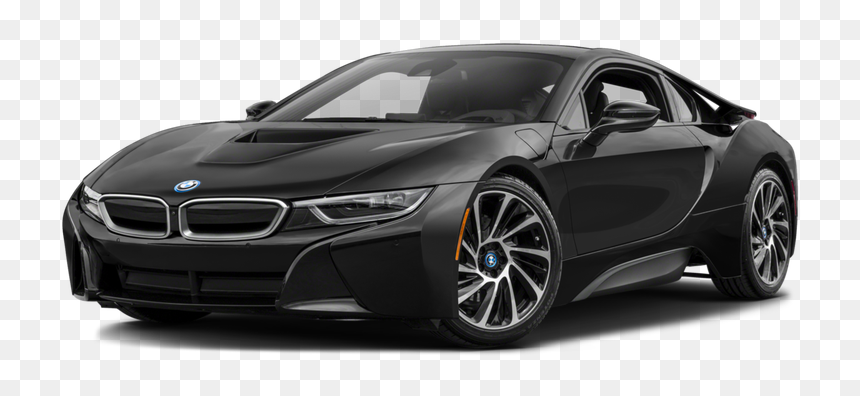
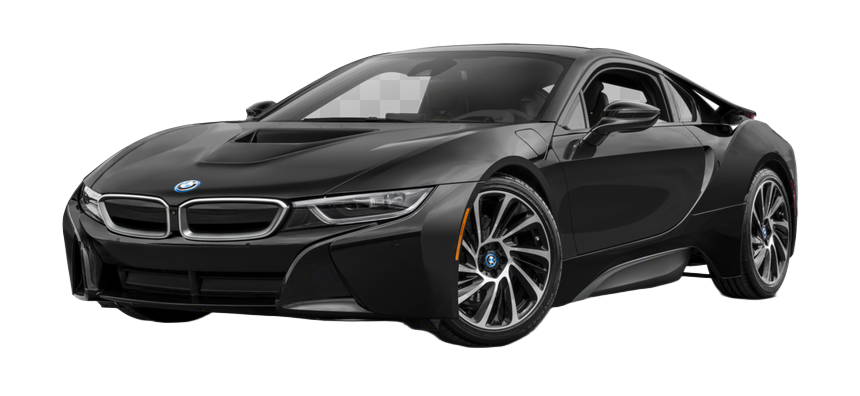
added images for car models

Changed region(s): [[0.0907, 0.6667, 0.9372, 0.9091]]

diff --git a/app/components/Checkout.vue b/app/components/Checkout.vue
@@ -84,7 +84,7 @@ onMounted(() => {
 })
 
 // Shipping and payment methods
-const selectedShippingMethod = ref<'store' | 'post'>('store')
+const selectedShippingMethod = ref<'store' | 'post'>('post')
 const selectedPaymentMethod = ref<'bank' | 'card'>('bank')
 const acceptTerms = ref(false)
 
@@ -529,18 +529,7 @@ const handleOrderNow = async () => {
             <div class="mb-6">
               <h4 class="text-sm font-medium text-gray-700 mb-3">{{ t('checkout.selectShippingMethod') }}</h4>
               <div class="grid grid-cols-1 md:grid-cols-2 gap-3">
-                <button 
-                  @click="selectedShippingMethod = 'store'"
-                  class="flex items-center justify-center space-x-3 p-4 border-2 rounded-lg transition-colors"
-                  :class="selectedShippingMethod === 'store' ? 'border-orange-500 bg-orange-50' : 'border-gray-200 hover:border-gray-300'"
-                >
-                  <div class="w-8 h-8 flex items-center justify-center">
-                    <img src="/images/building.png" :alt="t('checkout.atOurStore')" class="w-6 h-6" />
-                  </div>
-                  <span class="text-sm font-medium">{{ t('checkout.atOurStore') }}</span>
-                </button>
-                
-                <button 
+                <button
                   @click="selectedShippingMethod = 'post'"
                   class="flex items-center justify-center space-x-3 p-4 border-2 rounded-lg transition-colors"
                   :class="selectedShippingMethod === 'post' ? 'border-orange-500 bg-orange-50' : 'border-gray-200 hover:border-gray-300'"
@@ -550,6 +539,17 @@ const handleOrderNow = async () => {
                   </div>
                   <span class="text-sm font-medium">{{ t('checkout.viaPost') }}</span>
                 </button>
+
+                <button
+                  @click="selectedShippingMethod = 'store'"
+                  class="flex items-center justify-center space-x-3 p-4 border-2 rounded-lg transition-colors"
+                  :class="selectedShippingMethod === 'store' ? 'border-orange-500 bg-orange-50' : 'border-gray-200 hover:border-gray-300'"
+                >
+                  <div class="w-8 h-8 flex items-center justify-center">
+                    <img src="/images/building.png" :alt="t('checkout.atOurStore')" class="w-6 h-6" />
+                  </div>
+                  <span class="text-sm font-medium">{{ t('checkout.atOurStore') }}</span>
+                </button>
               </div>
             </div>
 
@@ -557,17 +557,15 @@ const handleOrderNow = async () => {
             <div class="mb-6">
               <h4 class="text-sm font-medium text-gray-700 mb-3">{{ t('checkout.paymentMethod') }}</h4>
               <div class="grid grid-cols-1 md:grid-cols-2 gap-3">
-                <!-- Bank Transfer -->
+                <!-- iDEAL -->
                 <button
                   @click="selectedPaymentMethod = 'bank'"
                   type="button"
                   class="flex items-center justify-center space-x-3 p-4 border-2 rounded-lg transition-colors"
                   :class="selectedPaymentMethod === 'bank' ? 'border-orange-500 bg-orange-50' : 'border-gray-200 hover:border-gray-300'"
                 >
-                  <div class="w-8 h-8 flex items-center justify-center">
-                    <img src="/images/bank.png" :alt="t('checkout.payment.bank')" class="w-6 h-6" />
-                  </div>
-                  <span class="text-sm font-medium">{{ t('checkout.payment.bank') }}</span>
+                  <img src="/images/ideal.png" alt="iDEAL" class="h-10 w-10 object-contain" />
+                  <span class="text-sm font-medium">iDEAL</span>
                 </button>
 
                 <!-- Credit / Debit Card -->
@@ -577,12 +575,9 @@ const handleOrderNow = async () => {
                   class="flex items-center justify-center space-x-3 p-4 border-2 rounded-lg transition-colors"
                   :class="selectedPaymentMethod === 'card' ? 'border-orange-500 bg-orange-50' : 'border-gray-200 hover:border-gray-300'"
                 >
-                  <div class="w-8 h-8 flex items-center justify-center">
-                    <!-- Card icon (inline SVG — no image dependency) -->
-                    <svg xmlns="http://www.w3.org/2000/svg" viewBox="0 0 24 24" fill="none" stroke="currentColor" stroke-width="1.5" class="w-6 h-6 text-gray-600">
-                      <rect x="1" y="4" width="22" height="16" rx="2" ry="2"/>
-                      <line x1="1" y1="10" x2="23" y2="10"/>
-                    </svg>
+                  <div class="flex items-center gap-1">
+                    <img src="/images/mastercard.png" alt="Mastercard" class="h-7 w-auto" />
+                    <img src="/images/visa.png" alt="Visa" class="h-5 w-auto" />
                   </div>
                   <span class="text-sm font-medium">{{ t('checkout.payment.card') }}</span>
                 </button>

diff --git a/app/pages/products/[slug].vue b/app/pages/products/[slug].vue
@@ -549,7 +549,7 @@ watch(() => route.params.slug, (newSlug) => {
               class="text-gray-700 leading-relaxed break-words"
               v-html="product.description"
             />
-            <p v-else class="text-gray-500 italic">{{ t('productDetail.noDescription') || 'No description available.' }}</p>
+            <p v-else class="text-gray-500 italic">{{ t('productDetail.noDescription') }}</p>
           </div>
 
           <!-- Details / Specifications -->
@@ -560,35 +560,27 @@ watch(() => route.params.slug, (newSlug) => {
                 <span class="text-gray-900 text-right">{{ product.sku }}</span>
               </div>
               <div v-if="brandName" class="flex justify-between py-2 border-b border-gray-100 gap-2">
-                <span class="font-medium text-gray-600">{{ t('productDetail.brand') || 'Brand' }}:</span>
+                <span class="font-medium text-gray-600">{{ t('productDetail.brand') }}:</span>
                 <span class="text-gray-900 text-right">{{ brandName }}</span>
               </div>
               <div v-if="product.weight" class="flex justify-between py-2 border-b border-gray-100 gap-2">
-                <span class="font-medium text-gray-600">{{ t('productDetail.weight') || 'Weight' }}:</span>
+                <span class="font-medium text-gray-600">{{ t('productDetail.weight') }}:</span>
                 <span class="text-gray-900 text-right">{{ product.weight }} kg</span>
               </div>
               <div v-if="product.packaging" class="flex justify-between py-2 border-b border-gray-100 gap-2">
-                <span class="font-medium text-gray-600">{{ t('productDetail.packaging') || 'Packaging' }}:</span>
+                <span class="font-medium text-gray-600">{{ t('productDetail.packaging') }}:</span>
                 <span class="text-gray-900 text-right">{{ product.packaging }}</span>
               </div>
-              <div v-if="product.sold_unit" class="flex justify-between py-2 border-b border-gray-100 gap-2">
-                <span class="font-medium text-gray-600">{{ t('productDetail.soldUnit') || 'Unit' }}:</span>
-                <span class="text-gray-900 text-right">{{ product.sold_unit }}</span>
-              </div>
               <div v-if="deliveryLabel" class="flex justify-between py-2 border-b border-gray-100 gap-2">
-                <span class="font-medium text-gray-600">{{ t('productDetail.deliveryTime') || 'Delivery' }}:</span>
+                <span class="font-medium text-gray-600">{{ t('productDetail.deliveryTime') }}:</span>
                 <span class="text-gray-900 text-right">{{ deliveryLabel }}</span>
               </div>
-              <div v-if="product.vat_percentage" class="flex justify-between py-2 border-b border-gray-100 gap-2">
-                <span class="font-medium text-gray-600">{{ t('productDetail.vat') || 'VAT' }}:</span>
-                <span class="text-gray-900 text-right">{{ product.vat_percentage }}%</span>
-              </div>
               <div v-if="product.category?.name" class="flex justify-between py-2 border-b border-gray-100 gap-2">
-                <span class="font-medium text-gray-600">{{ t('productDetail.category') || 'Category' }}:</span>
+                <span class="font-medium text-gray-600">{{ t('productDetail.category') }}:</span>
                 <span class="text-gray-900 text-right">{{ product.category.name }}</span>
               </div>
               <div v-if="product.subcategory?.name" class="flex justify-between py-2 border-b border-gray-100 gap-2">
-                <span class="font-medium text-gray-600">{{ t('productDetail.subcategory') || 'Subcategory' }}:</span>
+                <span class="font-medium text-gray-600">{{ t('productDetail.subcategory') }}:</span>
                 <span class="text-gray-900 text-right">{{ product.subcategory.name }}</span>
               </div>
             </div>
@@ -596,7 +588,7 @@ watch(() => route.params.slug, (newSlug) => {
               v-if="!product.sku && !brandName && !product.weight && !product.packaging && !product.sold_unit && !deliveryLabel"
               class="text-gray-500 italic"
             >
-              {{ t('productDetail.noDetails') || 'No details available.' }}
+              {{ t('productDetail.noDetails') }}
             </div>
           </div>
 

diff --git a/app/stores/locale.ts b/app/stores/locale.ts
@@ -460,6 +460,14 @@ const messages: Record<SupportedLocale, Record<string, string>> = {
     'productDetail.payCash': 'Pay with cash',
     'productDetail.payOnline': 'Pay with card',
     'productDetail.payBankTransfer': 'Pay by bank transfer',
+    'productDetail.brand': 'Brand',
+    'productDetail.weight': 'Weight',
+    'productDetail.packaging': 'Packaging',
+    'productDetail.deliveryTime': 'Delivery Time',
+    'productDetail.category': 'Category',
+    'productDetail.subcategory': 'Subcategory',
+    'productDetail.noDetails': 'No details available.',
+    'productDetail.noDescription': 'No description available.',
     'filters.mostPopular': 'Most Popular',
     'filters.priceLowToHigh': 'Price: Low to High',
     'filters.priceHighToLow': 'Price: High to Low',
@@ -928,6 +936,13 @@ const messages: Record<SupportedLocale, Record<string, string>> = {
     'productDetail.payOnline': 'Betaal online',
     'productDetail.payBankTransfer': 'Betaal met bankoverschrijving',
     'productDetail.noDescription': 'Geen beschrijving beschikbaar',
+    'productDetail.brand': 'Merk',
+    'productDetail.weight': 'Gewicht',
+    'productDetail.packaging': 'Verpakking',
+    'productDetail.deliveryTime': 'Levertijd',
+    'productDetail.category': 'Categorie',
+    'productDetail.subcategory': 'Subcategorie',
+    'productDetail.noDetails': 'Geen details beschikbaar.',
     'filters.mostPopular': 'Meest Populair',
     'filters.priceLowToHigh': 'Prijs: Laag naar Hoog',
     'filters.priceHighToLow': 'Prijs: Hoog naar Laag',

diff --git a/app/assets/css/tailwind.css b/app/assets/css/tailwind.css
@@ -32,6 +32,16 @@
   --color-green-foreground: var(--green-foreground);
   --color-orange: var(--orange);
   --color-orange-foreground: var(--orange-foreground);
+  /* Override Tailwind's built-in orange palette with #d3ba74 gold scale */
+  --color-orange-50: #fdf8ec;
+  --color-orange-100: #f8edc9;
+  --color-orange-200: #f0d895;
+  --color-orange-300: #e5c368;
+  --color-orange-400: #dcbf6e;
+  --color-orange-500: #d3ba74;
+  --color-orange-600: #b89d58;
+  --color-orange-700: #9a8040;
+  --color-orange-900: #5e4e22;
   --color-black: var(--black);
   --color-white: var(--white);
   --color-muted: var(--muted);
@@ -71,7 +81,7 @@
   --purple-foreground: oklch(1 0 0);
   --green: oklch(0.8958 0.1901 130.4);
   --green-foreground: oklch(0.145 0 0);
-  --orange: oklch(0.7069 0.1916 40.52);
+  --orange: #d3ba74;
   --orange-foreground: oklch(1 0 0);
   --black: oklch(0 0 0);
   --white: oklch(1 0 0);

diff --git a/app/components/Nav.vue b/app/components/Nav.vue
@@ -60,7 +60,7 @@ function openSearchDialog() { carVariantStore.openDialog() }
     <div class="flex items-center h-16 gap-6 px-6 mx-auto outer-container md:px-10">
       <!-- Brand -->
       <NuxtLink to="/" class="flex items-center min-w-[160px]">
-        <img src="/bimmerparts-logo-transparent.png" alt="BIMMERParts" class="h-auto w-[140px] object-contain" />
+        <img src="/bimmerparts-logo-new.png" alt="BIMMERParts" class="h-auto w-[180px] object-contain" />
       </NuxtLink>
 
       <!-- Desktop Nav -->